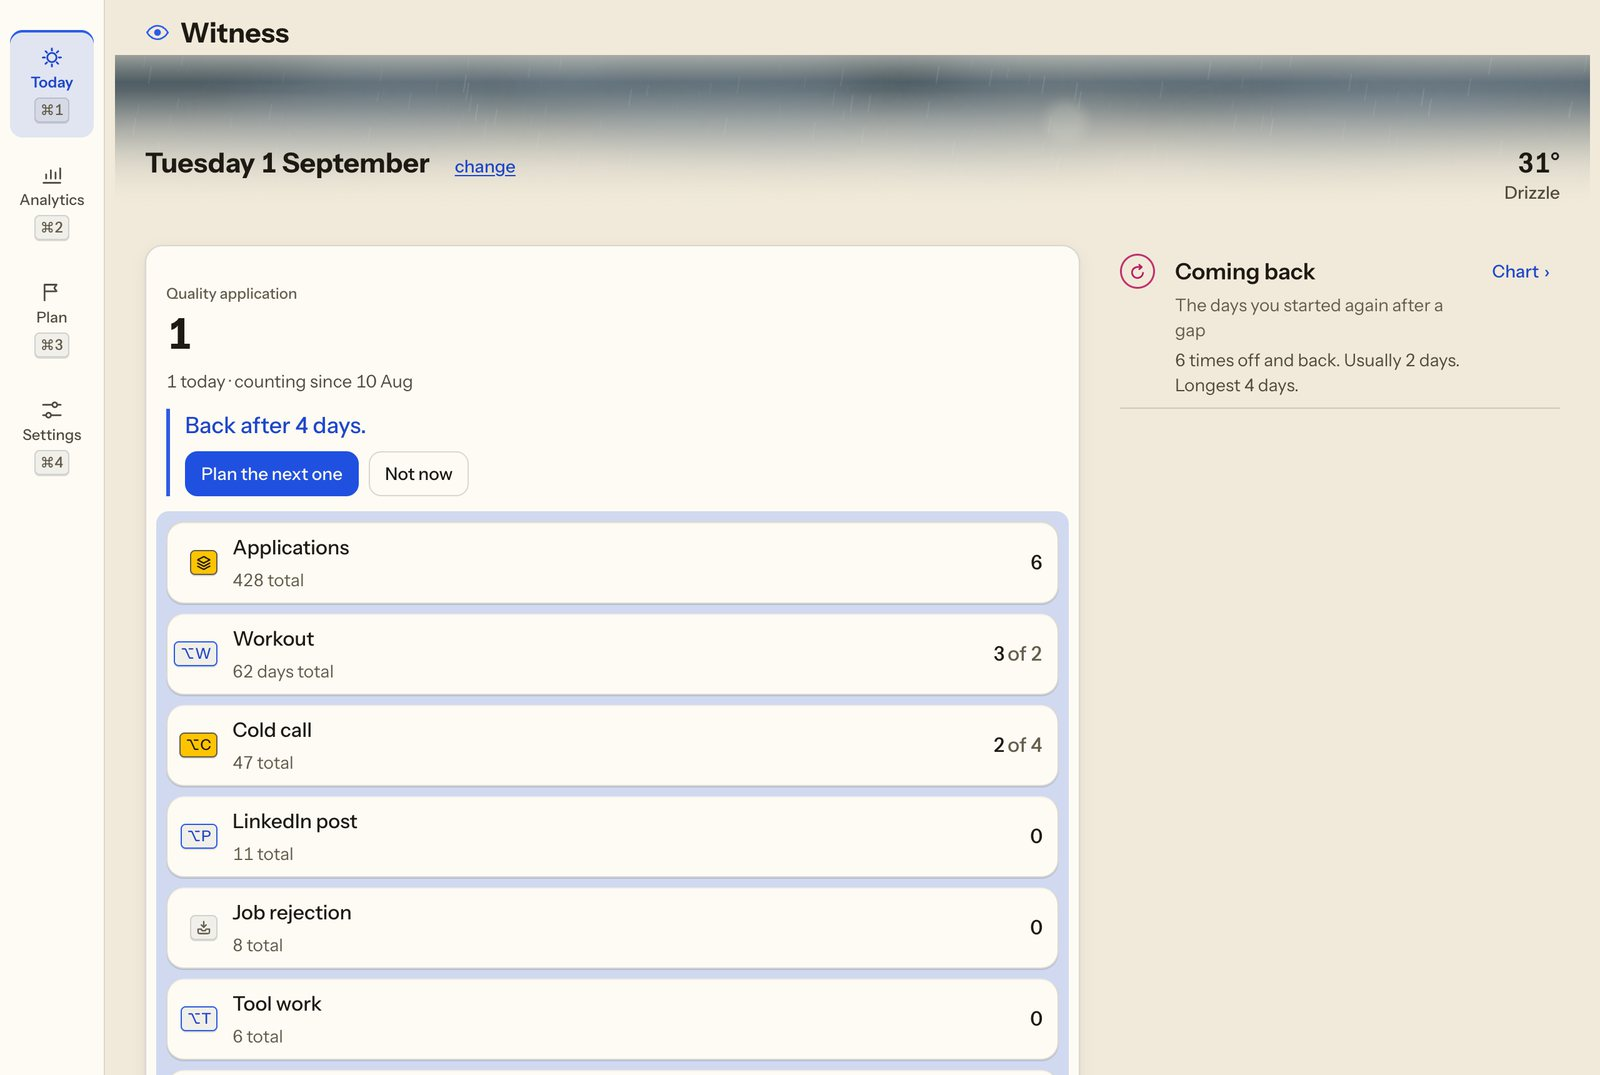
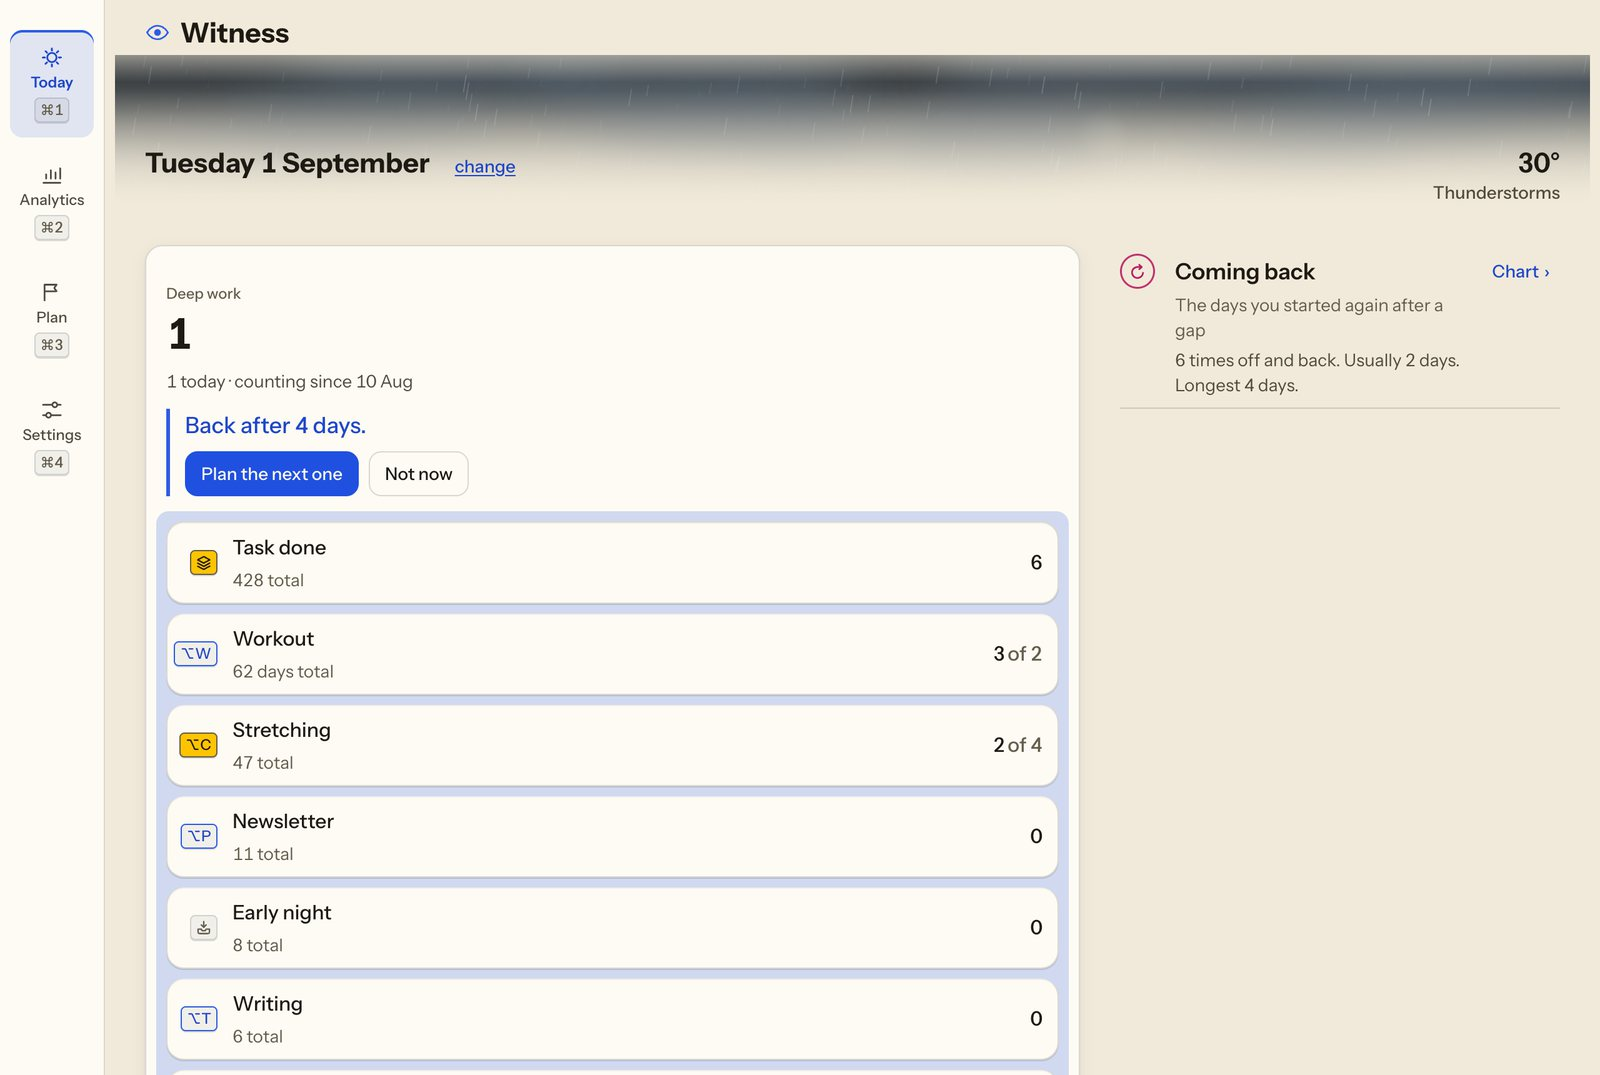
Name both schools with their credentials, and take the job search out of the Witness screens
Two things Agosh asked for.

The schools
The hero sub-line now reads "ESADE Barcelona MBA - IIT (ISM) Dhanbad B.Tech -
5+ years of experience driving growth in startups and scaleups", and the
Education lane carries a line of credential under each: the Financial Times
ranking for ESADE, and for IIT that it is an Indian Institute of Technology
entered through an exam over a million students sit each year.

This needed the location ban narrowed rather than dropped. Rule 5c still fails
on any mention of the city, with exactly one exception: when it directly
follows "ESADE", where it is the campus name on a degree rather than his
address. Proved by putting the bare word back and watching the rule fail.

The Witness screens
Every screenshot was showing his real tracker names, and together they read as
a job search: applications, cold calls, LinkedIn posts, job rejections, a goal
of sixty applications, a Sunday review about chasing a recruiter, and a line
about fearing the work is average. Not what a portfolio should broadcast.

The fixtures were patched in a throwaway copy of the harness and every surface
re-shot from it. Witness's own repo is untouched. The trackers are now Deep
work, Task done, Workout, Stretching, Newsletter, Early night, Writing, Guitar,
Spanish and Meditation; the goal is sixteen gym sessions by mid-September; the
week's written lines are a workshop and a course module; and the Mac panel's
"Cold call" became Spanish.
[…]

diff --git a/index.html b/index.html
@@ -53,7 +53,7 @@
 						<span class="ph print c" aria-hidden="true"></span>
 					</div>
 					<p class="pos">Experienced marketer, specialising in performance marketing and product growth</p>
-					<p class="sub">ESADE MBA &middot; 5+ years of experience driving growth in startups and scaleups</p>
+					<p class="sub">ESADE Barcelona MBA &middot; IIT (ISM) Dhanbad B.Tech &middot; 5+ years of experience driving growth in startups and scaleups</p>
 					<div class="hero-act">
 						<a class="act-mail" href="mailto:agosh.baranwal@alumni.esade.edu?subject=Hello%20Agosh">agosh.baranwal@alumni.esade.edu</a>
 						<a class="act-cv" href="/agosh-baranwal-cv.pdf" download>Download CV</a>
@@ -92,8 +92,8 @@
 						<div class="rv d1">
 							<p class="lane-h">Education</p>
 							<div class="edu">
-								<div class="edu-item"><span class="school">Esade Business School</span><span class="deg">MBA &middot; Spain &middot; 2024&ndash;26</span></div>
-								<div class="edu-item"><span class="school">IIT (ISM) Dhanbad</span><span class="deg">B.Tech &middot; India &middot; 2014&ndash;18</span></div>
+								<div class="edu-item"><span class="school">ESADE Barcelona</span><span class="deg">MBA &middot; Spain &middot; 2024&ndash;26</span><span class="cred">Ranked #7 in the world by the Financial Times</span></div>
+								<div class="edu-item"><span class="school">IIT (ISM) Dhanbad</span><span class="deg">B.Tech &middot; India &middot; 2014&ndash;18</span><span class="cred">An Indian Institute of Technology, entered through an exam over a million students sit each year</span></div>
 							</div>
 						</div>
 					</div>

diff --git a/projects/witness.html b/projects/witness.html
@@ -128,7 +128,7 @@
 								<p>A day you answered with nothing and a day nobody answered are two different marks in your history, because only one of them means you stopped</p>
 							</div>
 							<div class="call rv d1">
-								<span class="crop"><img src="/projects/witness/call-goal.jpg" alt="A goal reading twenty-three of sixty, fourteen days left, needs zero point seven a day from here" width="756" height="360" loading="lazy" decoding="async" /></span>
+								<span class="crop"><img src="/projects/witness/call-goal.jpg" alt="A goal reading nine of sixteen gym sessions, fourteen days left, needs half a session a day from here" width="756" height="360" loading="lazy" decoding="async" /></span>
 								<h3>Nothing is scored</h3>
 								<p>There is no grade, no rating and no rank, only the arithmetic of what you said you would do against the days you have left, so behind and ahead are facts rather than feelings</p>
 							</div>

diff --git a/site.css b/site.css
@@ -193,6 +193,7 @@ html.js .rv.in{opacity:1;transform:none}
 .edu-item{display:grid;gap:2px;border-left:3px solid;border-image:linear-gradient(180deg,var(--sky),var(--navy)) 1;padding-left:16px}
 .edu-item .school{font-size:15.5px;font-weight:700;letter-spacing:-.005em}
 .edu-item .deg{font-size:12.5px;font-weight:500;color:var(--ink-soft)}
+.edu-item .cred{font-size:13px;font-weight:500;color:var(--ink-mid);line-height:1.5;margin-top:5px;max-width:44ch}
 @media (max-width:720px){.ws{grid-template-columns:minmax(0,1fr)}}
 .slot{background:linear-gradient(160deg,var(--slot),var(--slot-2));border-radius:12px}
 .slot.ratio-16-10{aspect-ratio:16/10;width:100%}
